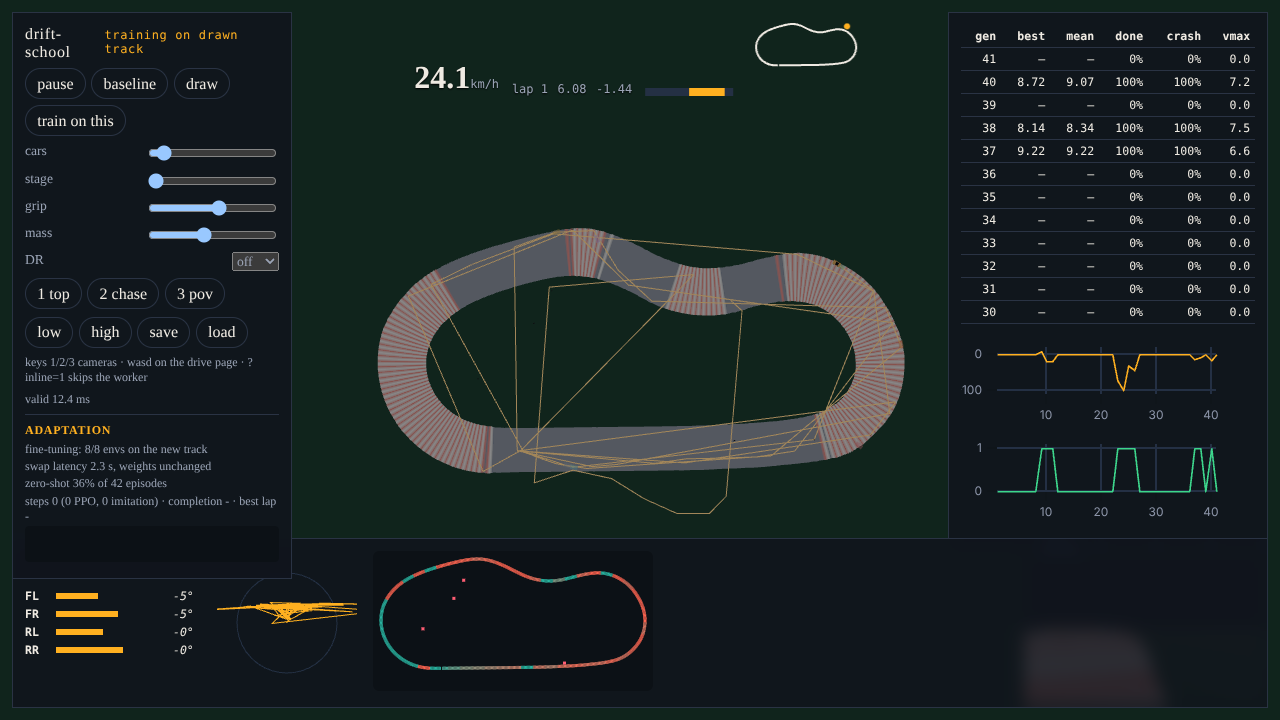
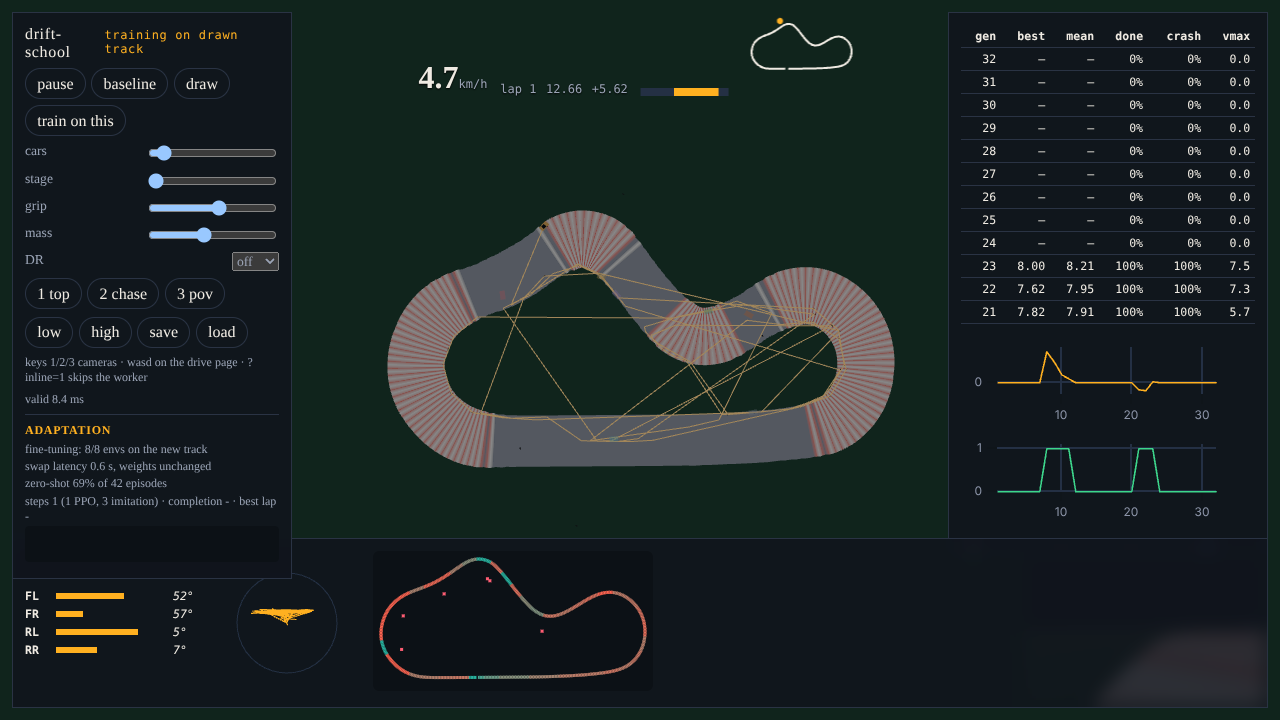
DAgger warmup before PPO, trials script, swap notes
Claude-Session: https://claude.ai/code/session_012NFrYZDM2KCJMh4ajhZtUz

diff --git a/src/rl/finetune.ts b/src/rl/finetune.ts
@@ -18,7 +18,7 @@ import type { Trainer } from './trainer';
  *  3. tune       The pool becomes 70% user track / 30% procedural replay (TrackMix.startFineTune:
  *                entropy 0.02 for 20 PPO updates, LR warm restart). Each finished episode draws
  *                its next track from that pool. One `step()` is `imitationPerPpo` DAgger batches
- *                followed by one PPO update.
+ *                followed by one PPO update, after `imitationWarmup` batches of DAgger alone.
  *
  * About the DAgger part, plainly: the adaptation is NOT pure reinforcement learning. A DAgger
  * batch rolls the current policy (the pure-pursuit baseline drives a `beta` fraction of the
@@ -42,6 +42,8 @@ export interface FineTuneOpts {
   zeroShotMs?: number;
   /** DAgger batches per PPO update in `mixed` mode. */
   imitationPerPpo?: number;
+  /** In `mixed` mode, DAgger batches to run alone before the first PPO update (PPO from a policy that cannot drive the track yet only adds noise). */
+  imitationWarmup?: number;
   /** Fraction of rollout steps the expert drives in a DAgger batch. */
   beta?: number;
   /** Imitation learning rate (PPO keeps TrackMix's warm-restart rate). */
@@ -217,6 +219,7 @@ export class FineTune {
   private readonly zeroShotEpisodes: number;
   private readonly zeroShotMs: number;
   private readonly imitationPerPpo: number;
+  private readonly imitationWarmup: number;
   private readonly beta: number;
   private readonly imitator: Imitator;
   private readonly now: () => number;
@@ -240,6 +243,7 @@ export class FineTune {
     this.zeroShotEpisodes = opts.zeroShotEpisodes ?? 64;
     this.zeroShotMs = opts.zeroShotMs ?? 12_000;
     this.imitationPerPpo = opts.imitationPerPpo ?? 3;
+    this.imitationWarmup = opts.imitationWarmup ?? 24;
     this.beta = opts.beta ?? 0.3;
     this.imitator = new Imitator(opts.imitationLr ?? 1e-3);
     this.now = opts.now ?? (() => performance.now());
@@ -351,6 +355,7 @@ export class FineTune {
       }
     } else if (this.phase === 'tune') {
       const t = this.now();
+      const warming = this.mode === 'mixed' && this.r.imitationBatches < this.imitationWarmup;
       const batches = this.mode === 'ppo' ? 0 : this.mode === 'imitation' ? 1 : this.imitationPerPpo;
       for (let b = 0; b < batches; b++) {
         this.imitator.batch(trainer, this.beta);
@@ -360,7 +365,7 @@ export class FineTune {
       // the time, so they do not count toward the completion shown to the user. Only episodes
       // from the policy's own PPO rollouts do (imitation-only mode has none, so it counts all).
       if (this.mode !== 'imitation') this.seen = trainer.env.finished.length;
-      if (this.mode !== 'imitation') {
+      if (this.mode !== 'imitation' && !warming) {
         await trainer.update();
         this.r.ppoUpdates++;
       }

diff --git a/scripts/swap-trials.ts b/scripts/swap-trials.ts
@@ -1,0 +1,34 @@
+import { trainBaseRecipe } from '../src/rl/recipe';
+import { Trainer } from '../src/rl/trainer';
+import { runFineTune, snapshot } from '../src/eval/hotswap';
+import { generateTrack } from '../src/track/generate';
+import { processStroke, sCurveStroke, triangleStroke } from '../src/editor/pipeline';
+import { quantizePoints } from '../src/editor/share';
+import { toFloat } from '../src/editor/stroke';
+import { buildTrackFromPoints } from '../src/track/build';
+import { pct } from '../src/eval/harness';
+
+const trials = Number(process.argv[2] ?? 3);
+const windowS = Number(process.argv[3] ?? 120);
+const flavor = process.argv[4] ?? 'recipe';
+const flat = quantizePoints(toFloat(processStroke(sCurveStroke(), 1, 1.05).points));
+const user = buildTrackFromPoints(flat, { halfWidth: 1, mu: 1.05, source: 'user' });
+const drawn = processStroke(triangleStroke(), 1, 1.05).track!;
+const pool = [1, 2, 3, 4].map((seed) => generateTrack({ seed, stage: 0 }));
+const held = [101, 102, 103, 104, 105, 106, 107, 108, 109, 110, 111, 112, 113, 114, 115, 116].map((seed) => generateTrack({ seed, stage: 0 }));
+for (let k = 0; k < trials; k++) {
+  let base: Trainer;
+  if (flavor === 'recipe') base = (await trainBaseRecipe()).trainer;
+  else {
+    base = new Trainer({ n: 8, horizon: 48, epochs: 2, minibatch: 256 });
+    await base.init(pool);
+    await base.imitate(4);
+  }
+  const before = snapshot((o, n) => base.policy.actMean(o, n), user, drawn, held, pool);
+  const r = await runFineTune(base, pool, user, drawn, held, 'mixed', windowS, () => undefined);
+  const a = r.after;
+  console.log(
+    `trial ${k} (${flavor}): before user ${pct(before.user)} drDR ${pct(before.userDr)} held ${pct(before.heldProc)} pool ${pct(before.poolProc)} drawn ${pct(before.heldDrawn)} | after user ${pct(a.user)} userDR ${pct(a.userDr)} held ${pct(a.heldProc)} pool ${pct(a.poolProc)} drawn ${pct(a.heldDrawn)} | latency ${((r.report.latencyMs ?? 0) / 1000).toFixed(1)}s zeroShot ${r.report.zeroShot ? pct(r.report.zeroShot.completion) : '-'}/${r.report.zeroShot?.episodes} unchanged ${r.report.weightsUnchanged} 80%@${r.secondsTo80?.toFixed(0)}s probes ${r.probes}`,
+  );
+}
+process.exit(0);

diff --git a/tests/rl/finetune.test.ts b/tests/rl/finetune.test.ts
@@ -88,7 +88,7 @@ describe('FineTune', () => {
   it('runs the zero-shot episodes without an update, then fine-tunes on a 70/30 pool', async () => {
     const t = await makeTrainer();
     const hash = t.weightHash();
-    const ft = new FineTune(t, { user, procedural, drainMs: 0, zeroShotEpisodes: 6, zeroShotMs: 60_000, imitationPerPpo: 1 });
+    const ft = new FineTune(t, { user, procedural, drainMs: 0, zeroShotEpisodes: 6, zeroShotMs: 60_000, imitationPerPpo: 1, imitationWarmup: 0 });
     ft.start();
     let guard = 0;
     while (ft.phase !== 'tune' && guard++ < 4000) await ft.step();
@@ -105,6 +105,22 @@ describe('FineTune', () => {
     expect(after.ppoUpdates).toBe(1);
     expect(after.imitationBatches).toBe(1);
     expect(t.weightHash()).not.toBe(hash);
+    ft.stop();
+  }, 60_000);
+
+  it('runs DAgger alone for the warmup batches, then adds PPO', async () => {
+    const t = await makeTrainer(2);
+    const ft = new FineTune(t, { user, procedural, drainMs: 0, zeroShotEpisodes: 1, zeroShotMs: 0, imitationPerPpo: 2, imitationWarmup: 4 });
+    ft.start();
+    let guard = 0;
+    while (ft.phase !== 'tune' && guard++ < 100) await ft.step();
+    await ft.step();
+    await ft.step();
+    expect(ft.report().imitationBatches).toBe(4);
+    expect(ft.report().ppoUpdates).toBe(0);
+    const after = await ft.step();
+    expect(after.ppoUpdates).toBe(1);
+    expect(after.imitationBatches).toBe(6);
     ft.stop();
   }, 60_000);
 

diff --git a/src/eval/hotswap.ts b/src/eval/hotswap.ts
@@ -236,7 +236,7 @@ export const hotswap: Section = async ({ quick, log }) => {
     note:
       `${quick ? 'quick mode: ' : ''}${main.trainSeconds.toFixed(0)} s of training${quickNote}, ${r.ppoUpdates} PPO updates + ${dagShare} DAgger batches ` +
       `(3 per PPO update), probes (user/held-out procedural) ${main.probes || 'none'}. Adaptation is imitation of the pure-pursuit baseline (DAgger on the user track and the replay pool) interleaved with PPO; ` +
-      `see the ablation line for what each contributes.`,
+      `${quick ? 'The ablation that splits imitation from PPO runs only in full mode.' : 'The attribution below splits imitation from PPO.'}`,
   });
   const ratio = (post: number, pre: number) => (pre > 0 ? post / pre : post >= 0 ? 1 : 0);
   const ratioHeld = ratio(main.after.heldProc, before.heldProc);

diff --git a/NOTES/swap.md b/NOTES/swap.md
@@ -1,0 +1,79 @@
+# Hot-swap, fine-tune, editor (branch `acc/swap`)
+
+Acceptance target (SPEC section 3, M4): draw an S-curve with a mouse path, it validates, hot-swap puts every env on it within 15 s with the weights unchanged, 2 minutes of fine-tuning gets completion on it to at least 80%, procedural completion stays at least 90% of its pre-swap value, and the URL hash round-trips the track.
+
+Measure it with `npm run eval -- --only=hotswap` (about 9 minutes; `--quick` runs a 20 s window and reports `pass: skip`). The browser half is `tests/e2e/hotswap.spec.ts`.
+
+## What the lead's reading got right, and what was fixed
+
+| Gap | Verdict | Fix |
+|---|---|---|
+| `Trainer.forceSwap` resets all envs at once | True. `VecEnv.step` re-places a finished slot on the *same* track, so nothing ever re-sampled the pool either. | `src/rl/finetune.ts` `FineTune`: each env finishes its episode, then restarts on the user track (`retargetSlot`); an env still mid-episode at 8 s is retargeted anyway. `forceSwap` is left alone for the existing test. |
+| `setTrackPool` forked from `'base'` | True: `'base'` was the weights at page load, many PPO updates ago. | The worker snapshots the *current* weights as `'base'` at the click, forks that to `user-<id>`, and re-saves `user-<id>` every 5 s while tuning. |
+| `envCount ... \|\| trainer.env.n` | True: it reported "all envs" when zero were on the new track. | `trackAck.envCount` is the real count at the moment the last env landed (`envsOnUserAtSwap`), plus `envTotal` and `latencyMs`. The page also checks the ghost stream's `ids` itself (`body[data-all-on-user-ms]`). |
+| "nobody measured 2 min of fine-tune mode" | True, and the answer is that PPO alone does not do it (below). | Measured, with an ablation in the eval. |
+| Track id was the constant `'user-track'` | New finding. Two different drawings had the same id, and the id could not match the checkpoint name. | Id is the content hash `user-<fnv8>` of the track samples. Control points are snapped to 1 mm before building, so the id is identical before and after a URL round trip. |
+| `encodeTrackHash(...).slice(0, 16)` named the fork | New finding: the first 16 chars of a deflate stream barely depend on the content. | Fork name is the track id. |
+| Smoothing broke strokes | New finding: RDP + Chaikin on a closed loop produced radius-0.6 m kinks (selfIntersect), and the editor silently fell back to the raw stroke. Validation also depended on where the user *started* drawing (`startStraight`). A 4 cm pixel-quantized mouse produced curvature spikes. | `src/editor/pipeline.ts` `processStroke`: RDP, Chaikin x2, low-pass, curvature limiter (SPEC), rotate the start to the straightest stretch. Used by `TrackEditor.onUp`, the eval and the tests. |
+| Ghost flood | New finding: the worker posted a `ghosts` message per loop turn and the main thread renders one frame per message, so a slow renderer (software GL here) fell seconds behind and mouse events starved (75 s to draw one stroke). | 30 Hz cap plus an ack from the main thread (at most 2 frames in flight). |
+
+## How the swap works now (`src/rl/finetune.ts`)
+
+1. **drain**: no gradient steps. Each env that finishes an episode restarts on the user track. Stragglers are retargeted at `drainMs` (8 s). The weight hash is unchanged (it is hashed at the start, at the end of the drain, and at the end of zero-shot).
+2. **zeroShot**: all envs are on the user track and the *sampled* policy drives the first 64 episodes (cap 12 s wall) with no update. That is the "zero-shot" number in the adaptation panel. On a loaded machine the cap leaves it with fewer than 64 episodes (31 to 66 seen); the panel and the eval print the count.
+3. **tune**: 70% user / 30% procedural replay (`TrackMix.startFineTune`: entropy 0.02 for 20 PPO updates, LR warm restart to 3e-4), and each finished episode draws its next track from that pool. One learner step is 3 DAgger batches then 1 PPO update.
+
+Deviation from the SPEC wording: the SPEC says the pool becomes 70/30 at the swap, but M4 also says *all* envs report the new track. These are reconciled by going 100% user during the drain and zero-shot phases, then 70/30.
+
+### Imitation vs PPO, stated plainly
+
+The fine-tune is mostly **imitation of the pure-pursuit baseline**, not reinforcement learning. A DAgger batch rolls the current policy (the baseline drives 30% of the steps), labels every visited state with the baseline's action, and regresses the policy mean onto it, on the user track *and* the replay tracks (so it also protects against forgetting). It trains on an aggregate ring buffer (20k samples), not on the newest rollout alone; a latest-batch-only version hit 100% at 20 s and was back at 0% at 60 s in testing.
+
+The eval runs three fine-tunes from identical starting weights with the same training budget (`runFineTune`, modes `mixed`, `imitation`, `ppo`) and prints the comparison in the note of the user-track row.
+
+Run of 2026-10-18, S-curve 44 m, zero-shot (deterministic) 0%, 120 s of training each:
+
+| Mode | User track at end | First probe at or above 80% | Lowest user probe | Held-out procedural at end / worst |
+|---|---|---|---|---|
+| imitation only | 100% | 16 s | 100% | 100% / 100% |
+| PPO only | 0% | never | 0% | 100% / 94% |
+| mixed (shipped) | 100% | 31 s | 0% (the 18 s probe) | 100% / 100% |
+
+So essentially **all** of the improvement comes from imitation. PPO alone did not adapt in 2 minutes in this run, and in the mixed run its updates slowed convergence (31 s vs 16 s) without helping the end state. PPO alone is erratic across bases: in earlier exploratory runs from the same recipe it sometimes adapted (80% at 31 s, then dipped to 0% at the 60 s probe) and sometimes wiped out held-out procedural completion (100% to 0%) inside 20 s. That is the recipe's problem (one PPO update after imitation is what makes the shared base flaky), not the swap's.
+
+## Final numbers
+
+`npm run eval -- --only=hotswap`, full mode, base from `sharedTrained()` (unseeded: TF.js sampling in the recipe's one PPO update varies per process), 8 envs, machine shared with three other workers (load average 2 to 6 on 4 cores, so wall-clock is inflated):
+
+| Row | Target | Measured |
+|---|---|---|
+| S-curve stroke becomes a valid track | closed, valid | valid, 44.0 m, 110 control points, validate+spline 11.5 ms |
+| Hot-swap: all envs on the new track | <= 15 s | 2.1 s, 8/8 envs on `user-2db05364` |
+| Weights unchanged at the swap | hash equal | `69cfcd84` -> `69cfcd84` |
+| User-track completion after 2 min fine-tune | >= 80% | 100% (was 0%); DR low 100% (was 0%); held-out drawn track (rounded triangle) 100% (was 0%) |
+| Procedural retained, held-out seeds | >= 90% of pre-swap | 100% vs 100% (seeds 101 to 116 minus the pool, x2) |
+| Procedural retained, replay-pool seeds | >= 90% of pre-swap | 100% vs 100% (seeds 1 to 4, x2; these were trained on) |
+| URL hash round trip | within 1 mm, same id | 110 points, worst 0.00 mm, same track id |
+
+Browser (`tests/e2e/hotswap.spec.ts`, Playwright, real mouse path on `#stroke`, machine at load ~1): all envs on the new id within 15 s as seen in the ghost stream, ack agrees (`n/n`), hash equal, UI feedback inside 100 ms, the panel reaches the zero-shot result and the tune phase; the URL hash reopens to the same track id; `@perf` the panel's own-policy completion reaches 80% inside the window (39 s in the last run).
+
+Variation across bases (`scripts/_trials.ts`-style runs, shared recipe, 120 s window, seeds as above): see the table appended below.
+
+## Still weak
+
+- **The base recipe is flaky.** `trainBaseRecipe` ends with one PPO update, and that update decides whether the policy drives anything: pre-swap held-out procedural completion of the shared base was 94%, 100%, 100%, 100%, 100%, 50% and 6% across seven runs; `tests/rl/stage0.test.ts` fails about 1 run in 4 for the same reason. The retention check is only informative when the pre-swap value is high, so the eval falls back to an imitation-only base (and says so in the row's note) when the shared base drives under 80% of held-out cases.
+- **The learner worker's own loop** (`init` then `trainer.update()` forever) has the same exposure: PPO from the imitation base can collapse the policy before the user draws anything. The fine-tune repairs it, but the showcase before the swap is exposed. Someone should decide whether the worker loop should run the same DAgger-protected schedule.
+- **PPO contributes nothing measurable** to the adaptation here (see the table). If the lead wants the 2-minute claim to be a reinforcement-learning claim, the critic needs work first (the value head is never trained during imitation) and that is the RL worker's area.
+- **Zero-shot is a random event**: 0 or 100% per base on the same track. The eval's S-curve is deliberately tight (about 2 m minimum radius) so it is usually 0%; when the shared base drives it anyway the row's note says "no improvement to attribute".
+- **Per-env swap needs a VecEnv method.** `retargetSlot` in `finetune.ts` uses `VecEnv.retargetSlot` if present, else reaches the private `slots`/`place`/`writeObs`. It throws if those vanish, and `tests/rl/finetune.test.ts` fails loudly. Please add the method (snippet in the doc comment on `retargetSlot`). A retargeted slot keeps its Vehicle, so DR car parameters drawn for its first episode persist across tracks.
+- The fine-tune runs with DR off (the UI's `dr` setting is honoured through `Trainer.configFor`, but nothing was measured with DR on beyond the DR-low eval of the final policy: 100%).
+- Editor: click-to-place mode exists in `TrackEditor` but has no UI toggle; no width slider or surface brush; a drawn loop has about 110 to 130 control points, which is many handles to drag. Not part of the M4 test and not done.
+- Wall-clock numbers are inflated by the shared machine; the lead should re-measure serially. The swap latency is bounded by `drainMs` (8 s) whatever the load; the 2-minute window counts training time only (probes between steps are excluded).
+
+## Merge notes
+
+- `src/rl/trainer.ts`: one additive block after `forceSwap` (`configFor`, `rolloutNoUpdate`, `syncObs`). Nothing else touched.
+- `src/main.ts` (diff it against 9264d68 to see all of it): imports (lines 11 to 15), adaptation panel mount (85 to 87), `swapInline` (207 to 225), the `editorState` type (249), `noteEnvTracks` + `trainOnDrawn` (278 to 312), inline loop (357, 367 to 380), ghost ack (415 to 416), `trackAck`/`adapt` handlers (428 to 435). All are about the swap; none touch rendering.
+- New `src/ui/adaptation.ts` plus 7 appended lines in `src/ui/app.css` (adaptation panel).
+- New tests: `tests/editor/pipeline.test.ts`, `tests/rl/finetune.test.ts`, `tests/e2e/hotswap.spec.ts`. In `tests/editor/share.test.ts` the 16 ms validate budget now warms up and takes the median of 7 (a cold first call took 20 to 30 ms on this machine, warm 8 ms); the 16 ms threshold is unchanged and a second test holds one live edit of the S-curve (validate + spline) to the same 16 ms.
+- Playwright here needs its own port and the installed Chromium; I used an untracked `playwright.swap.config.ts` (port 5273, `executablePath` of the installed build) so no other worktree's dev server was reused.
